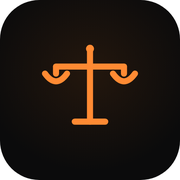
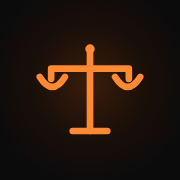
App abre na tela de novo contrato; ícones ocupando todo o espaço (sem borda)
Claude-Session: https://claude.ai/code/session_01LopQzW3XM78mzvZh3cbRhj

diff --git a/app.html b/app.html
@@ -434,7 +434,8 @@ h1,h2,h3{font-family:"Inter Tight","Inter",system-ui,sans-serif;font-weight:800;
         var soLocal=convos.filter(function(c){return !c.synced&&!ids[c.id]&&c.text});
         convos=soLocal.concat(cloud);
         save("clausa-convos",convos);
-        current=convos.length?convos[0].id:null;
+        // ao abrir, fica na tela de novo contrato; só mantém a conversa se o usuário já abriu uma com texto
+        var aberto=current&&getConvo(current);if(!(aberto&&aberto.text))current=null;
         renderSidebar();renderMain();
         if(soLocal.length)cloudSync();
       }
@@ -879,7 +880,8 @@ h1,h2,h3{font-family:"Inter Tight","Inter",system-ui,sans-serif;font-weight:800;
   var fi=el("input");fi.type="file";fi.id="file";fi.accept=".txt,text/plain";fi.style.display="none";document.body.appendChild(fi);
 
   // start
-  if(convos.length){current=convos[0].id}
+  // ao abrir o app, começa sempre na tela de novo contrato (as conversas antigas ficam no menu)
+  current=null;
   renderSidebar();renderMain();sizeInput();
 
   // conta / nuvem: se estiver logado, carrega os contratos da nuvem

diff --git a/sw.js b/sw.js
@@ -1,7 +1,7 @@
 // Service worker do Clausa: deixa o app abrir mesmo sem internet.
 // Páginas: tenta a rede primeiro (sempre a versão mais nova) e cai no cache se estiver offline.
 // Nunca guarda chamadas ao Supabase nem a outros sites: só arquivos do próprio Clausa.
-const VERSAO = 'clausa-v2';
+const VERSAO = 'clausa-v3';
 const BASE = ['./', 'index.html', 'app.html', 'entrar.html', 'privacidade.html', 'termos.html',
   'favicon.png', 'manifest.webmanifest', 'js/clausa-config.js', 'img/icones/icone-192.png', 'img/icones/icone-512.png'];
 
